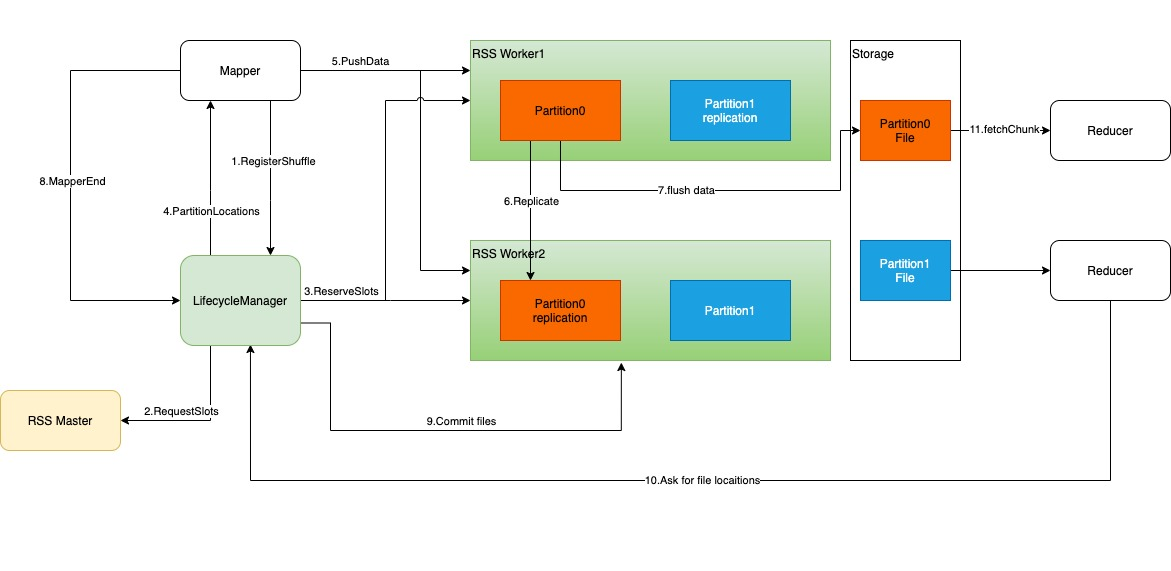
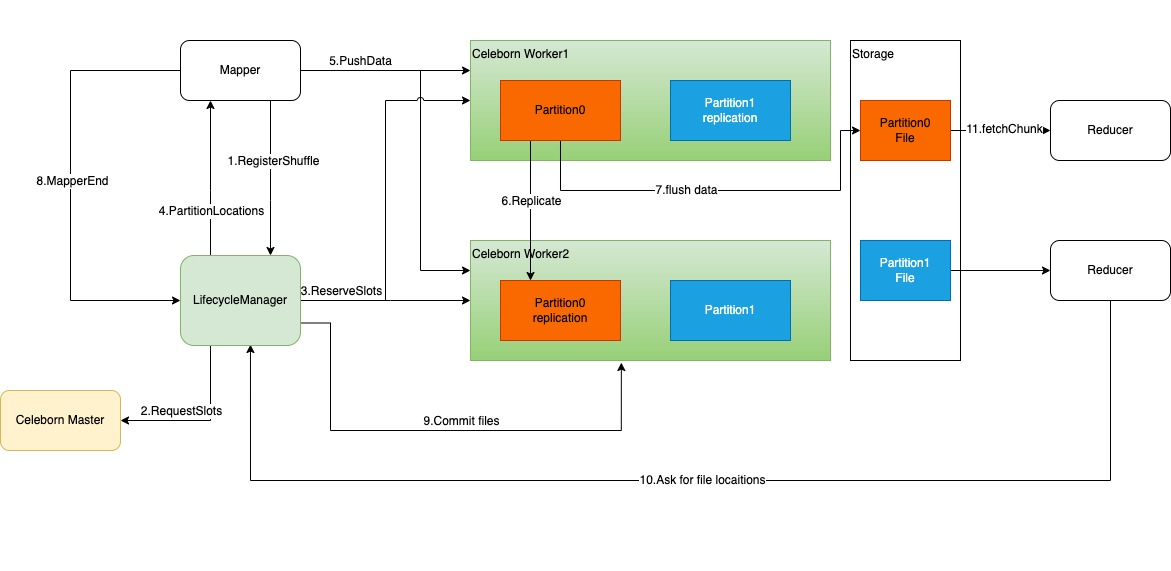
[CELEBORN-746][BUILD] Rename project files from rss-xx to celeborn-xx
### What changes were proposed in this pull request?
Rename project files from rss-xx to celeborn-xx

### Why are the changes needed?

### Does this PR introduce _any_ user-facing change?

### How was this patch tested?

Closes #1660 from AngersZhuuuu/CELEBORN-746.

Lead-authored-by: Angerszhuuuu <angers.zhu@gmail.com>

diff --git a/README.md b/README.md
@@ -7,7 +7,7 @@ management service for intermediate data including shuffle data, spilled data, r
 
 ## Internals
 ### Architecture
-![Celeborn architecture](assets/img/rss.jpg)
+![Celeborn architecture](assets/img/celeborn.jpg)
 Celeborn has three primary components: Master, Worker, and Client.
 Master manages all resources and syncs shared states based on Raft.
 Worker processes read-write requests and merges data for each reducer.
@@ -33,7 +33,7 @@ LifecycleManager maintains metadata of each shuffle and runs within the Spark dr
 11. Reducers read shuffle data.
 
 ### Load Balance
-![Load Balance](assets/img/rss_load_balance.jpg)
+![Load Balance](assets/img/celeborn_load_balance.jpg)
 
 We introduce slots to achieve load balance. We will equally distribute partitions on every Celeborn worker by tracking slot usage.
 The Slot is a logical concept in Celeborn Worker that represents how many partitions can be allocated to each Celeborn Worker.
@@ -153,7 +153,7 @@ celeborn.master.ha.node.2.ratis.port 9872
 celeborn.master.ha.node.3.host clb-3
 celeborn.master.ha.node.3.port 9097
 celeborn.master.ha.node.3.ratis.port 9872
-celeborn.master.ha.ratis.raft.server.storage.dir /mnt/disk1/rss_ratis/
+celeborn.master.ha.ratis.raft.server.storage.dir /mnt/disk1/celeborn_ratis/
 
 celeborn.metrics.enabled true
 # If you want to use HDFS as shuffle storage, make sure that flush buffer size is at least 4MB or larger.

diff --git a/METRICS.md b/METRICS.md
@@ -27,7 +27,7 @@ scrape_configs:
 3.You need to install Grafana server(https://grafana.com/grafana/download)
 
 4.Import Celeborn dashboard into grafana.
-You can find Celeborn dashboard at assets/grafana/rss-dashboard.json.
+You can find Celeborn dashboard at assets/grafana/celeborn-dashboard.json.
 
 ### Optional
 
@@ -100,7 +100,7 @@ Celeborn worker metric : `org/apache/celeborn/service/deploy/worker/WorkerSource
 
 ## Grafana Dashboard
 
-We provide a grafana dashboard for Celeborn [Grafana-Dashboard](assets/grafana/rss-dashboard.json). The dashboard was generated by grafana of version 8.5.0.
+We provide a grafana dashboard for Celeborn [Grafana-Dashboard](assets/grafana/celeborn-dashboard.json). The dashboard was generated by grafana of version 8.5.0.
 Here are some snapshots:
 ![d1](assets/img/dashboard1.png)
 ![d2](assets/img/dashboard2.png)
